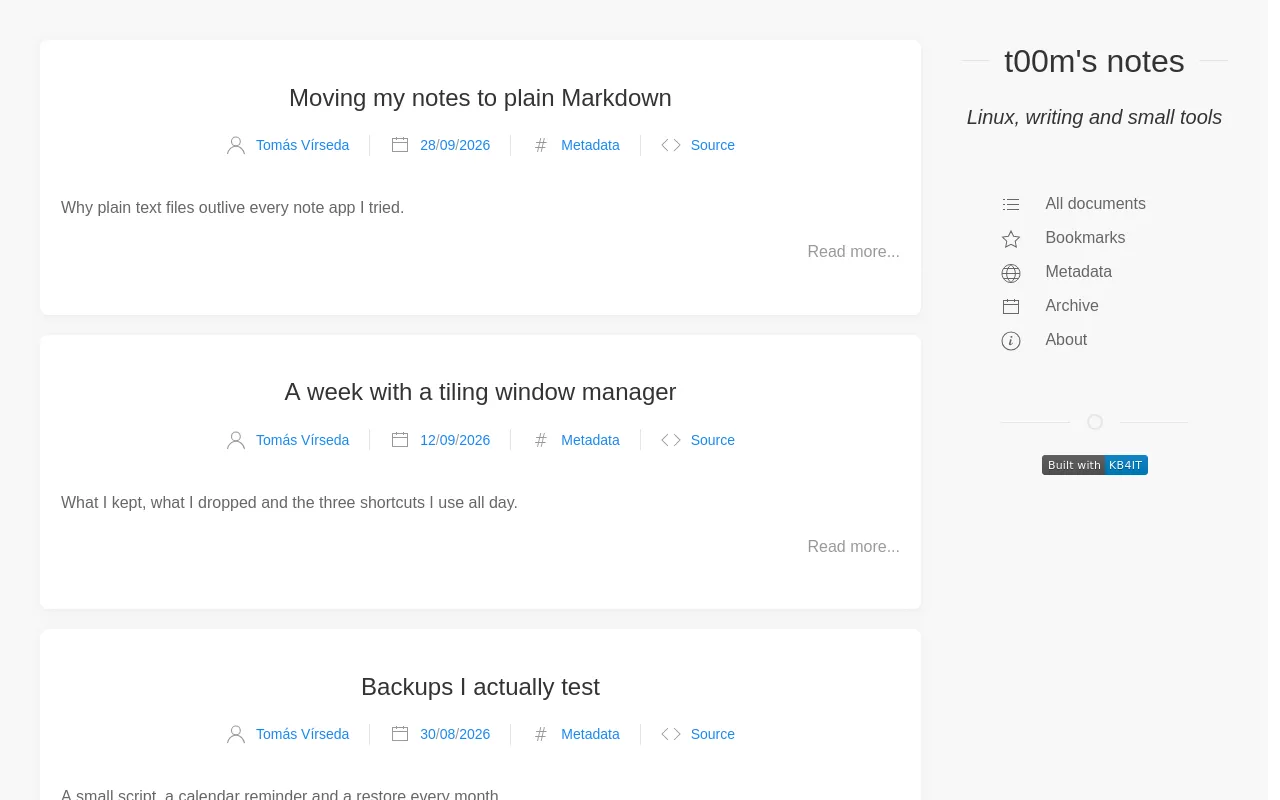
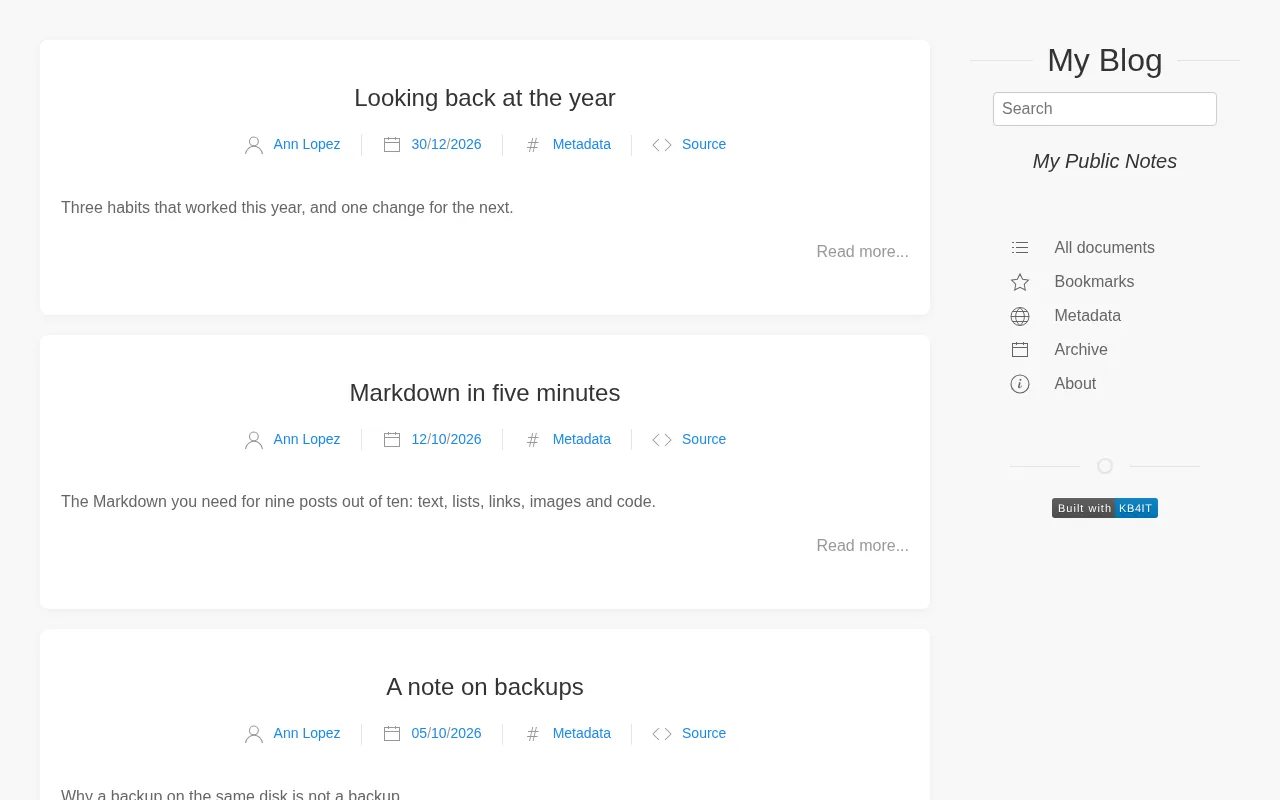
docs(help): add a screenshots page and retake every screenshot from the 0.11.0 samples

diff --git a/help/source/gallery.md b/help/source/gallery.md
@@ -1,0 +1,69 @@
+---
+DocType: Reference
+Feature: Themes
+HelpId: screenshots
+Keyword: screenshot, gallery, preview, look, techdoc, blog, bookshelf, apphelp, dark, terminal interface
+Level: basic
+Order: 515
+Related: explanation-themes.md, howto-use-tui.md
+Section: Concepts
+Summary: Screenshots of the four themes and the terminal interface, taken from the sample apps of this release.
+---
+
+# Screenshots
+
+Each site below is a sample app made with `kb4it create <theme> <path>` and built without changes, apart from the author name. The pages are 1280 pixels wide.
+
+## techdoc {#techdoc}
+
+The home page is a dashboard: documents by type of document, open items and the latest activity.
+
+![techdoc dashboard with open items and activity](resources/images/techdoc.webp)
+
+A document page shows the quality score, the main properties and the tabs with details, quality, related documents and history above the text.
+
+![techdoc document page of a task record](resources/images/techdoc-page.webp)
+
+Every property value has its own page. An author with a profile gets the profile card above the table of their documents.
+
+![techdoc page of the author Ann Lopez with the profile card](resources/images/techdoc-property.webp)
+
+The Add page writes new documents in the browser, from a skeleton for each kind of document; see [Write in the editor](howto-write-document-editor.md).
+
+![techdoc Add page with one card per skeleton](resources/images/techdoc-add.webp)
+
+## blog {#blog}
+
+The home page lists the latest posts with their excerpt.
+
+![blog home page with the latest posts](resources/images/blog.webp)
+
+![blog post page](resources/images/blog-post.webp)
+
+## bookshelf {#bookshelf}
+
+The library shows every book on a shelf, with the reading progress and the chapter to continue.
+
+![bookshelf library with two books](resources/images/bookshelf.webp)
+
+A book page shows its parts as columns, with the state of each chapter.
+
+![bookshelf book page with its parts and chapters](resources/images/bookshelf-book.webp)
+
+## apphelp {#apphelp}
+
+This help is an apphelp site. It follows the light or dark setting of the system.
+
+![apphelp home page of this help, light](resources/images/apphelp.webp)
+
+![apphelp home page of this help, dark](resources/images/apphelp-dark.webp)
+
+## Terminal interface {#tui}
+
+Run `kb4it` with no arguments in a terminal; see [Use the terminal interface](howto-use-tui.md).
+
+![terminal interface, project list](resources/images/tui-main.webp)
+
+![terminal interface, project screen](resources/images/tui-project.webp)
+
+![terminal interface, explorer of properties, values and documents](resources/images/tui-explorer.webp)

diff --git a/CHANGELOG.md b/CHANGELOG.md
@@ -63,7 +63,7 @@ The format follows [Keep a Changelog](https://keepachangelog.com/en/1.1.0/).
 - techdoc and bookshelf: Help opens the KB4IT help site (https://t00m.github.io/KB4IT/) in a new window.
 - techdoc dashboard: Open items and Activity are two sections, Open items above Activity, each folding on its own. Activity keeps its tabs for changes, incidents, events and monitoring, and its tab bar opens on the tab chosen last.
 - Every bundled theme now requires KB4IT 0.11.0 (`"kb4it": ">=0.11.0"` in `theme.json`). Theme versions: techdoc 1.2.0, blog 1.1.0, bookshelf 1.1.0, apphelp 1.0.1.
-- Help: the command line reference lists the options of `kb4it serve`, and the log code reference lists `LINK_NO_EXTENSION` and `IMAGE_MISSING`. The help site sets `seo.index` and `timezone`.
+- Help: a new Screenshots page (`gallery.html`) shows the four themes and the terminal interface, and every screenshot was taken again from the sample apps of this release. The command line reference lists the options of `kb4it serve`, and the log code reference lists `LINK_NO_EXTENSION` and `IMAGE_MISSING`. The help site sets `seo.index` and `timezone`.
 
 ### Removed
 

diff --git a/help/source/explanation-themes.md b/help/source/explanation-themes.md
@@ -42,6 +42,8 @@ A theme decides what the website looks like and which pages it has. Your documen
   </section>
 </div>
 
+More pages of each theme, and the terminal interface, are on [Screenshots](gallery.md).
+
 Each theme can also have the [Add page](howto-write-document-editor.md), a Markdown editor in the browser. It is on by default in techdoc. In blog, bookshelf and apphelp it is off until you set `"editor": true` in `repo.json`. Any theme can turn it off with `"editor": false`.
 
 ## Sample apps {#apps}
